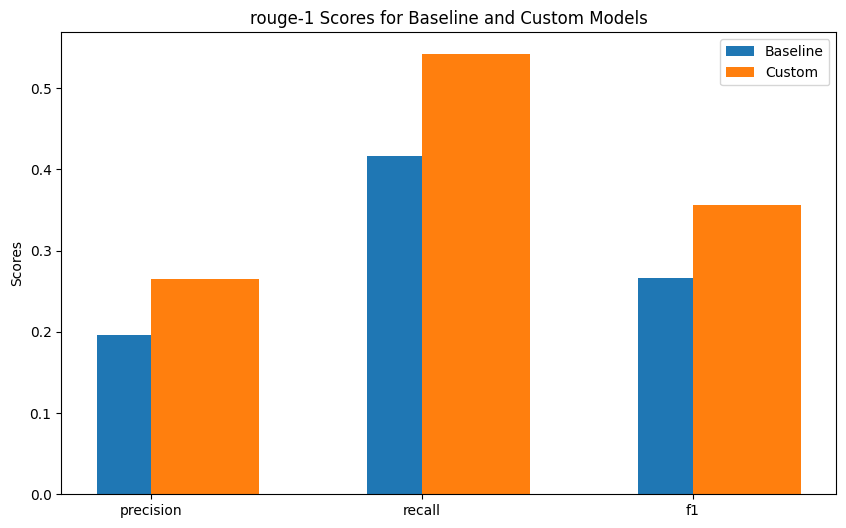
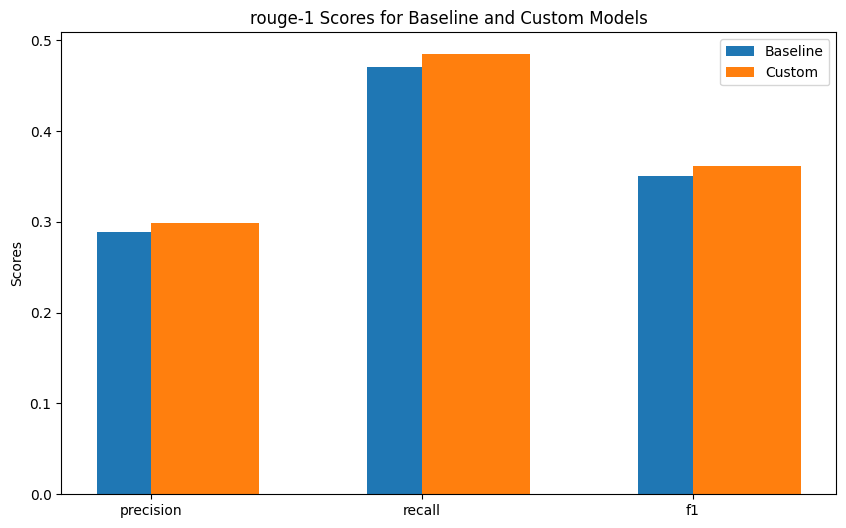
evaluation script done, graphs generated

diff --git a/model/evaluation/evaluation.py b/model/evaluation/evaluation.py
@@ -5,6 +5,7 @@ import datasets
 from datasets import load_dataset
 from peft import PeftModel
 import torch
+from tqdm import tqdm
 from transformers import AutoTokenizer, BartForConditionalGeneration
 
 from model import DEVICE, MAX_DISTANCE, MAX_INPUT_LENGTH, MODEL_ID
@@ -90,92 +91,102 @@ link_type_to_id = {}
 data_collator = LinkGramDataCollator(tokenizer, MAX_INPUT_LENGTH, MAX_DISTANCE, link_type_to_id, device=DEVICE)
 print("Models and DataCollator loaded successfully.")
 
-example = test_split[1000]
-print("\n" + "="*80)
-print("Article:", example["article"])
-print("="*80)
+def evaluate_models(test_data, num_examples=100):
+    diag = DiagnosticCapture()
+    
+    metrics_to_track = ["rouge1", "rouge2", "rougeL"]
+    stats = ["precision", "recall", "fmeasure"]
 
-# Use the data_collator to prepare inputs
-batch = data_collator([example])
+    # allocate "space" for adding up scores across examples
+    accumulated_baseline = {metric: {stat: 0.0 for stat in stats} for metric in metrics_to_track}
+    accumulated_custom = {metric: {stat: 0.0 for stat in stats} for metric in metrics_to_track}
 
-def single_comparison_run(custom_model, baseline_model, batch, tokenizer):
-    with torch.no_grad():
-        attach_linkgram_matrices(
-            base_model, 
-            batch["token_distance_matrix"], 
-            batch["token_link_type_matrix"]
-        )
+    print(f"Starting evaluation on {num_examples} examples...")
 
-        generated_ids = model.generate(
-            input_ids=batch["input_ids"],
-            max_length=MAX_INPUT_LENGTH,
-            num_beams=4,
-            early_stopping=True,
-        )
+    for i in tqdm(range(num_examples), desc="Evaluating"):
+        example = test_data[i]
+        batch = data_collator([example])
+        
+        with torch.no_grad():
 
-        generated_summary = tokenizer.decode(generated_ids[0], skip_special_tokens=True)
+            # Baseline model
+            baseline_generated_ids = baseline_model.generate(
+                input_ids=batch["input_ids"],
+                max_length=MAX_INPUT_LENGTH,
+                num_beams=4,
+                early_stopping=True,
+            )
+            baseline_summary = tokenizer.decode(baseline_generated_ids[0], skip_special_tokens=True)
+            
+            attach_linkgram_matrices(
+                base_model, 
+                batch["token_distance_matrix"], 
+                batch["token_link_type_matrix"]
+            )
+            
+            # Custom model
+            custom_generated_ids = model.generate(
+                input_ids=batch["input_ids"],
+                max_length=MAX_INPUT_LENGTH,
+                num_beams=4,
+                early_stopping=True,
+            )
+            custom_summary = tokenizer.decode(custom_generated_ids[0], skip_special_tokens=True)
+            
+            reference_summary = example["highlights"]
+            
+            # Get rouge scores
+            baseline_scores = diag.rouge_metric_from_single_example(reference_summary, baseline_summary)
+            custom_scores = diag.rouge_metric_from_single_example(reference_summary, custom_summary)
 
-        baseline_generated_ids = baseline_model.generate(
-            input_ids=batch["input_ids"],
-            max_length=MAX_INPUT_LENGTH,
-            num_beams=4,
-            early_stopping=True,
-        )
-        baseline_summary = tokenizer.decode(baseline_generated_ids[0], skip_special_tokens=True)
+            # accumulate
+            for metric in metrics_to_track:
+                for stat in stats:
+                    # pattern: get the current accumulated value for each stat within each metric
+                    #       then add the new scores from the current example and continue to the next example
+                    accumulated_baseline[metric][stat] += getattr(baseline_scores[metric], stat)
+                    accumulated_custom[metric][stat] += getattr(custom_scores[metric], stat)
 
-        print("\n[Vanilla BART Summary]:")
-        print(baseline_summary)
+    # Calculate averages by dividing each stat within each metric
+    avg_baseline = {metric: {stat: accumulated_baseline[metric][stat] / num_examples for stat in stats} for metric in metrics_to_track}
+    avg_custom = {metric: {stat: accumulated_custom[metric][stat] / num_examples for stat in stats} for metric in metrics_to_track}
+    
+    return avg_baseline, avg_custom
 
-        print("\n[LinkGram-Enhanced Summary]:")
-        print(generated_summary)
+avg_baseline, avg_custom = evaluate_models(test_split, num_examples=100)
 
-        print("\n[Reference Summary]:")
-        print(example["highlights"])
+metric_dict = MetricDictionary()
 
-        diag = DiagnosticCapture()
-        baseline_model_rouge, custom_model_rouge = diag.rouge_two_model_comparison(
-            reference_summary=example["highlights"],
-            baseline_model_generated_summary=baseline_summary,
-            custom_model_generated_summary=generated_summary
-        )
+# mock dict template from plot.py
+mapping = {
+    "rouge1": "rouge-1",
+    "rouge2": "rouge-2",
+    "rougeL": "rouge-len"
+}
+stat_mapping = {
+    "precision": "precision",
+    "recall": "recall",
+    "fmeasure": "f1"
+}
 
-        return (baseline_model_rouge, custom_model_rouge)
+#use above mock to populate the actual metric dictionary
+for m_orig, m_new in mapping.items():
+    for s_orig, s_new in stat_mapping.items():
+        """
+        Similar to the double fors and dict comprehensions used above, just loop trough
+        to access each individual stat, and then add the corresponding accumulated average score
+        from above to that specific stat in the metric dictionary.
+        """
+        metric_dict.add_metric("baseline", m_new, s_new, avg_baseline[m_orig][s_orig])
+        metric_dict.add_metric("custom", m_new, s_new, avg_custom[m_orig][s_orig])
 
-baseline_model_scores, custom_model_scores = single_comparison_run(model, baseline_model, batch, tokenizer)
+print("\nEvaluation complete. Average Scores:")
+print(f"Baseline: {avg_baseline}")
+print(f"Custom: {avg_custom}")
 
-MetricDictionary = MetricDictionary()
-
-# easy refactor, just use for loops.
-# leaving it like this for now so it's easier to visualize interface between DiagnosticCapture, MetricDictionary, and the script above
-MetricDictionary.add_metric("baseline", "rouge-1", "precision", baseline_model_scores["rouge1"].precision)
-MetricDictionary.add_metric("baseline", "rouge-1", "recall", baseline_model_scores["rouge1"].recall)
-MetricDictionary.add_metric("baseline", "rouge-1", "f1", baseline_model_scores["rouge1"].fmeasure)
-
-MetricDictionary.add_metric("baseline", "rouge-2", "precision", baseline_model_scores["rouge2"].precision)
-MetricDictionary.add_metric("baseline", "rouge-2", "recall", baseline_model_scores["rouge2"].recall)
-MetricDictionary.add_metric("baseline", "rouge-2", "f1", baseline_model_scores["rouge2"].fmeasure)
-
-MetricDictionary.add_metric("baseline", "rouge-len", "precision", baseline_model_scores["rougeL"].precision)
-MetricDictionary.add_metric("baseline", "rouge-len", "recall", baseline_model_scores["rougeL"].recall)
-MetricDictionary.add_metric("baseline", "rouge-len", "f1", baseline_model_scores["rougeL"].fmeasure)
-
-
-MetricDictionary.add_metric("custom", "rouge-1", "precision", custom_model_scores["rouge1"].precision)
-MetricDictionary.add_metric("custom", "rouge-1", "recall", custom_model_scores["rouge1"].recall)
-MetricDictionary.add_metric("custom", "rouge-1", "f1", custom_model_scores["rouge1"].fmeasure)
-
-MetricDictionary.add_metric("custom", "rouge-2", "precision", custom_model_scores["rouge2"].precision)
-MetricDictionary.add_metric("custom", "rouge-2", "recall", custom_model_scores["rouge2"].recall)
-MetricDictionary.add_metric("custom", "rouge-2", "f1", custom_model_scores["rouge2"].fmeasure)
-
-MetricDictionary.add_metric("custom", "rouge-len", "precision", custom_model_scores["rougeL"].precision)
-MetricDictionary.add_metric("custom", "rouge-len", "recall", custom_model_scores["rougeL"].recall)
-MetricDictionary.add_metric("custom", "rouge-len", "f1", custom_model_scores["rougeL"].fmeasure)
-
-create_bar_graph(MetricDictionary.get())
-
-
-
+print("\nGenerating plots in 'generated_plots/'...")
+# create the plot
+create_bar_graph(metric_dict.get())
 
 
 

diff --git a/model/model_diagnostics/model_diagnostics.py b/model/model_diagnostics/model_diagnostics.py
@@ -38,10 +38,12 @@ class DiagnosticCapture:
     #computes and prints the mean of the input tensor
     def from_tensor(self, tensor: torch.Tensor, diagnostic_name: str):
         mean = tensor.mean()
-
+        
+        """
         print("\n" + "="*80)
         print(f"Mean of {diagnostic_name}: {mean}")
         print("="*80)
+        """
     
     # Generate ROUGE metrics between a generated summary and a reference summary
     def rouge_metric_from_single_example(self, reference_summary: str, generated_summary: str):
@@ -55,11 +57,13 @@ class DiagnosticCapture:
     def rouge_two_model_comparison(self, reference_summary, baseline_model_generated_summary, custom_model_generated_summary):
         baseline_scores = self.rouge_metric_from_single_example(reference_summary, baseline_model_generated_summary)
         custom_scores = self.rouge_metric_from_single_example(reference_summary, custom_model_generated_summary)
-        
+
+        """
         print("\n" + "="*80)
         print("ROUGE Scores Comparison:")
         print(f"Baseline Model Scores: {baseline_scores}")
         print(f"Custom Model Scores: {custom_scores}")
         print("="*80)
+        """
         return (baseline_scores, custom_scores)
 

diff --git a/model/model_diagnostics/plot.py b/model/model_diagnostics/plot.py
@@ -58,8 +58,9 @@ class MetricDictionary:
     data: dict
 
     def __init__(self):
-        #initialize the metric dictionary using the dictionary template
-        self.data = _TEMP_METRIC_DICT
+        #initialize the metric dictionary using a copy of the dictionary template
+        import copy
+        self.data = copy.deepcopy(_TEMP_METRIC_DICT)
  
     def add_metric(self, model_type: str, metric_name: str, data_point_name: str, value: float):
         if model_type not in self.data:
@@ -117,7 +118,7 @@ def create_bar_graph(data=example_data):
         plt.title(f'{metric} Scores for Baseline and Custom Models')
         plt.legend()
 
-        plt.savefig(f'generated_plots/{metric}_scores.png', bbox_inches='tight', transparent=True)  # Save the plot as a PNG file
+        plt.savefig(f'generated_plots/{metric}_scores.png', bbox_inches='tight', transparent=True)
         plt.show()
 
 if __name__ == "__main__":
